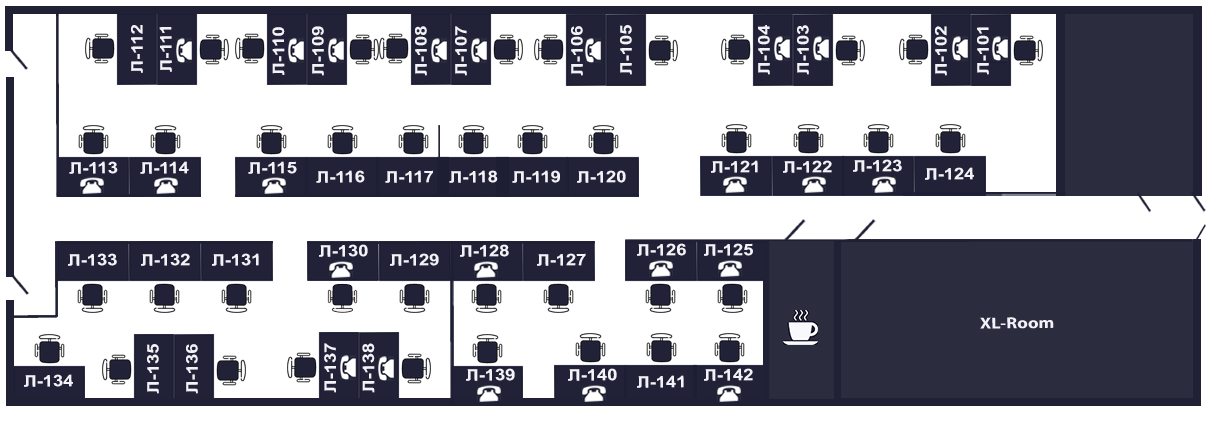
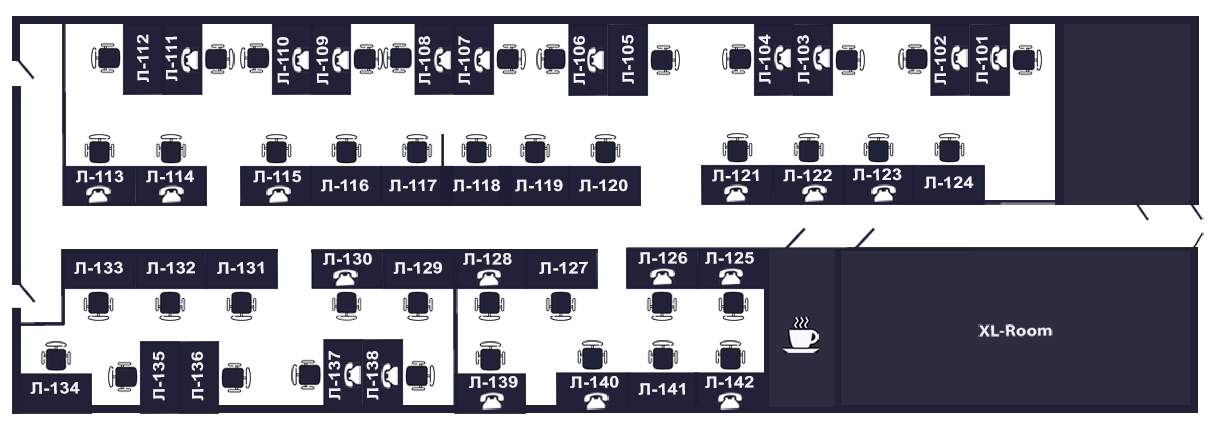
added new phone places to map

Changed region(s): [[0.0, 0.0, 0.9984, 0.9881], [0.5616, 0.2779, 0.9984, 0.5249], [0.78, 0.7411, 0.8736, 0.8029]]

diff --git a/src/app/router/config/routerConfig.tsx b/src/app/router/config/routerConfig.tsx
@@ -20,8 +20,7 @@ export const routeConfig: Record<AppRoutes, AppRouteProps> = {
     },
     [AppRoutes.RESERVATION]: {
         path: RoutePath.reservation,
-        element: <ReservationPage />,
-        authRequire: true
+        element: <ReservationPage />
     },
     // [AppRoutes.RESERVATIONLOCKER]: {
     //     path: RoutePath.reservationlocker,
